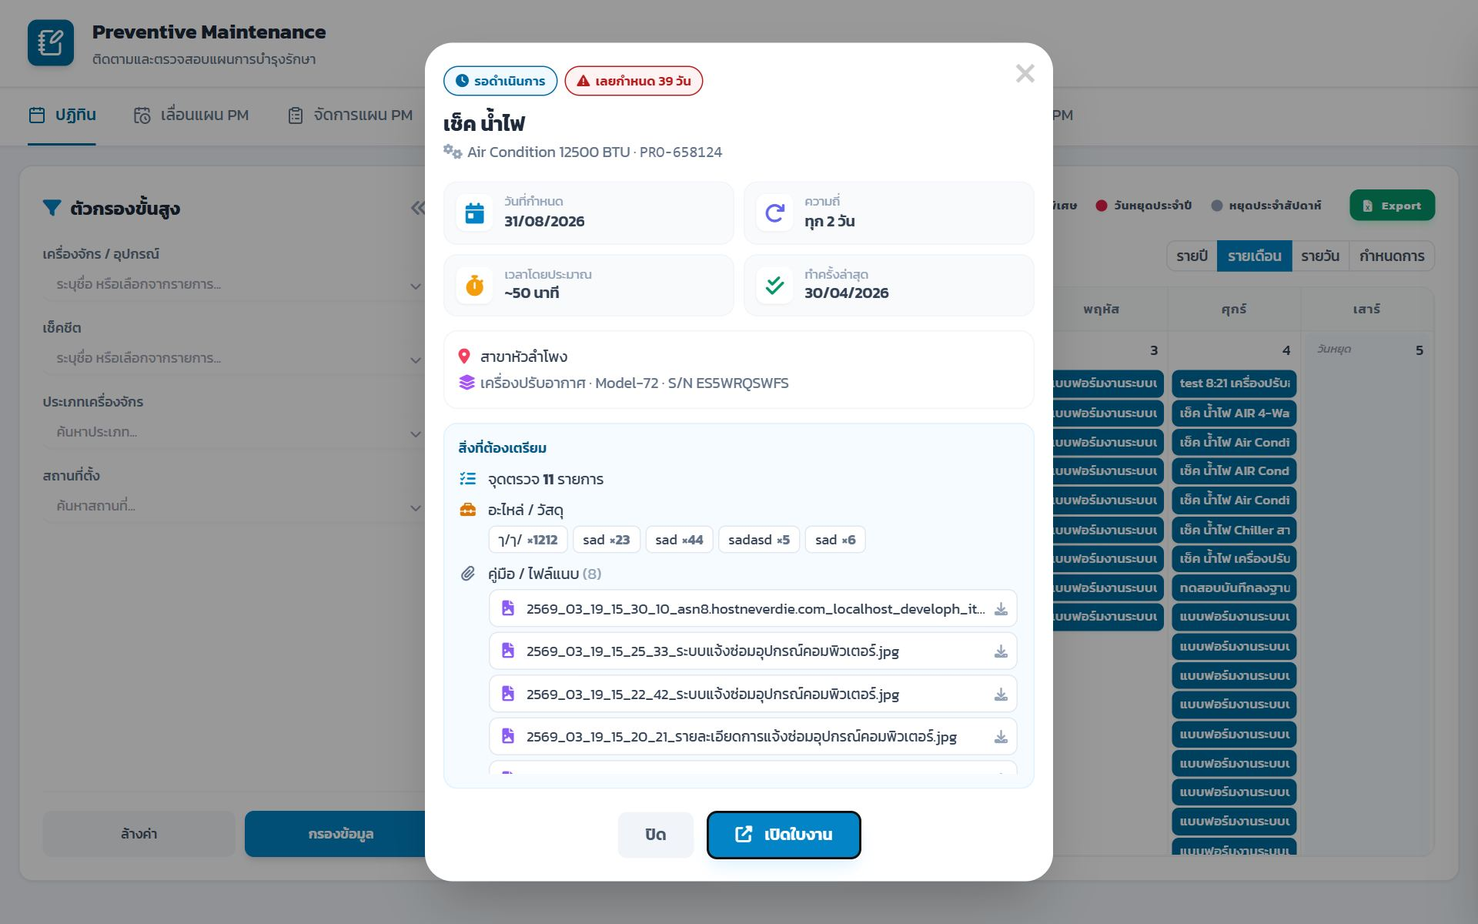
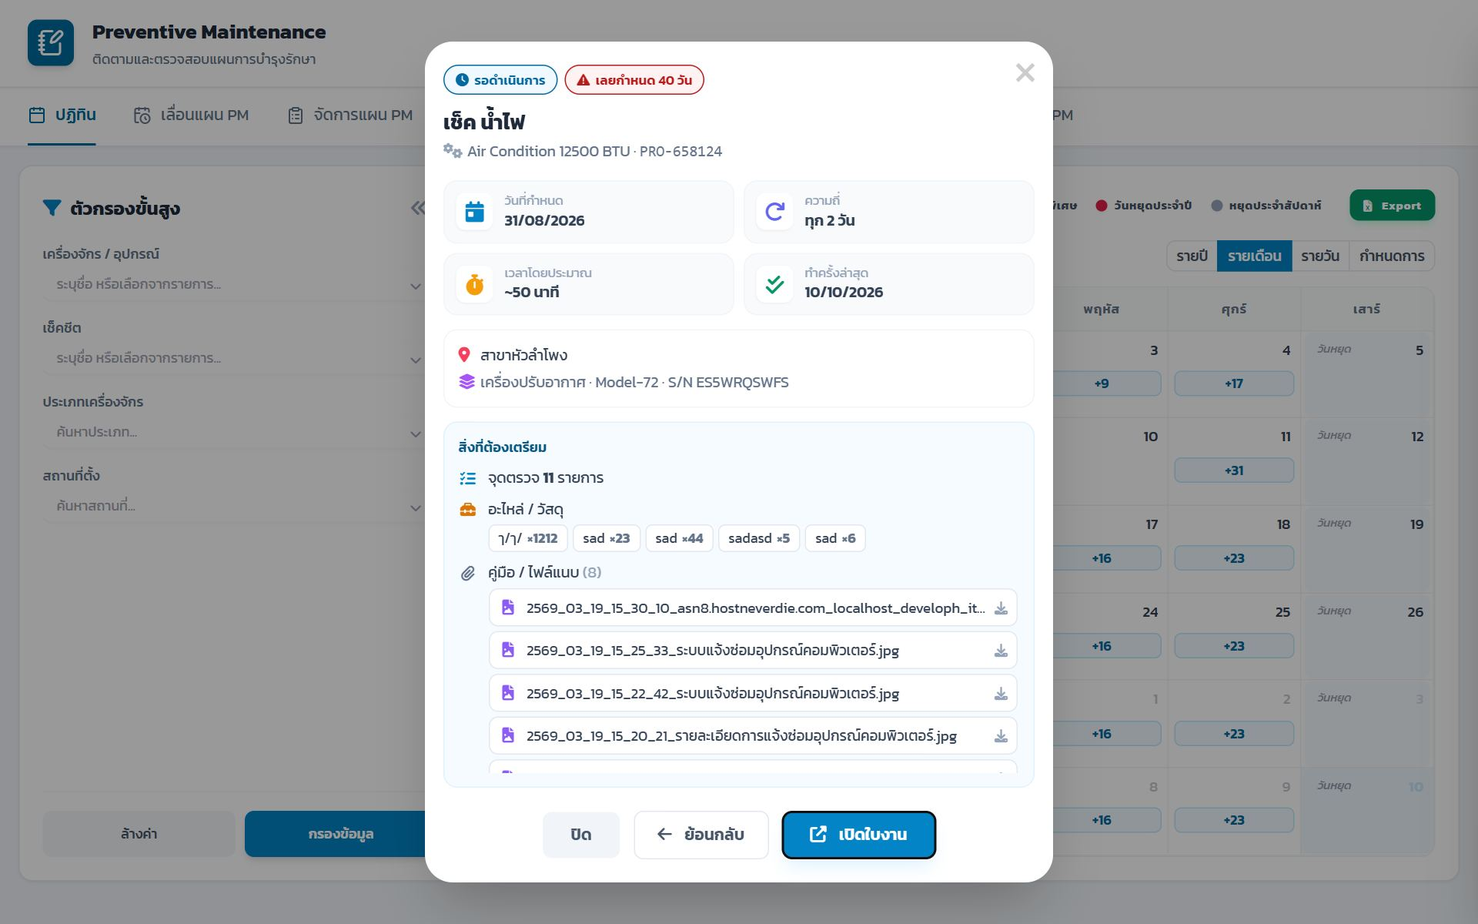
เพิ่มคู่มือบันทึกพร้อมกันหลายเครื่อง

diff --git a/tutorial.php b/tutorial.php
@@ -297,7 +297,7 @@ const MODULES = [
             { m: 6, t: '<b>ความเร่งด่วน</b> — ต่ำ / ปานกลาง / สูง / เร่งด่วนมาก' },
             { m: 7, t: '<b>อาการเสีย/ปัญหาที่พบ</b> — อธิบายสิ่งที่เห็น เช่น "แอร์เปิดไม่ติด มีน้ำหยด"' },
             { m: 8, t: '<b>รูปภาพ</b> — แนบได้สูงสุด 5 รูป (JPG / PNG / WEBP) กด ADD PHOTO หรือลากรูปมาวาง' },
-            { m: 9, t: '<b>วิดีโอ</b> — แนบได้ 1 คลิป ไม่เกิน 30 วินาที (ตัดช่วงคลิปได้ก่อนส่ง)' },
+            { m: 9, t: '<b>วิดีโอ</b> — แนบได้ 1 คลิป ไม่เกิน 30 วินาที ถ้าคลิปยาวกว่านั้น ระบบจะเปิดหน้า<b>ตัดวิดีโอ</b>แบบเต็มจอ ลากที่จับสองข้างเพื่อเลือกช่วง แล้วกด <span class="kbd">ตัดและใช้วิดีโอนี้</span>' },
             { m: 10, t: 'ตรวจข้อมูลแล้วกด <span class="kbd">ยืนยันแจ้งซ่อม</span>' }
         ] }],
         tips: ['ถ่ายรูปให้เห็นทั้งจุดที่เสียและป้าย/รหัสเครื่อง จะช่วยให้ช่างเตรียมอุปกรณ์ได้ถูก', 'กด <b>ล้างข้อมูล</b> หากต้องการเริ่มกรอกใหม่']
@@ -316,7 +316,7 @@ const MODULES = [
         intro: 'ดูรายการแจ้งซ่อมทั้งหมด สถานะของแต่ละงาน และจัดการใบงาน',
         parts: [{ shot: 'repair_list', steps: [
             { m: 1, t: '<b>ค้นหา</b> — พิมพ์ชื่อผู้แจ้ง อาการ อาคาร สถานะ หรือรหัสครุภัณฑ์' },
-            { m: 2, t: '<b>รูป/วิดีโอ</b> — กดเพื่อดูไฟล์ที่แนบมา ตัวเลขที่มุมคือจำนวนไฟล์ ไอคอน ▶ คือมีวิดีโอ' },
+            { m: 2, t: '<b>รูป/วิดีโอ</b> — กดเพื่อดูไฟล์ที่แนบมาแบบเต็มจอ ตัวเลขที่มุมคือจำนวนไฟล์ ไอคอน ▶ คือมีวิดีโอ (วิธีดูรูปอยู่ในเคล็ดลับด้านล่าง)' },
             { m: 3, t: '<b>สถานะ</b> — แถบสีบอกความคืบหน้าของงาน (ดูความหมายด้านล่าง)' },
             { m: 4, t: '<b>แก้ไขใบงาน</b> — เปิดรายละเอียด สำหรับรับงาน/ปิดงาน (ดูบทถัดไป)' },
             { m: 5, t: '<b>พิมพ์ใบงาน</b>' },
@@ -331,7 +331,7 @@ const MODULES = [
             ['<span class="inline-block w-2.5 h-2.5 rounded-full bg-emerald-500 mr-1.5"></span>ประเมินแล้ว', 'ผู้แจ้งประเมินความพึงพอใจแล้ว'],
             ['<span class="inline-block w-2.5 h-2.5 rounded-full bg-rose-500 mr-1.5"></span>ยกเลิก', 'ใบงานถูกยกเลิก']
         ] },
-        tips: ['กดปุ่มกรอง ▾ บนหัวคอลัมน์ เพื่อกรองเฉพาะอาคาร ชั้น หรือสถานะที่ต้องการ', 'บนมือถือ เลือกชิป <b>งานค้าง</b> ด้านบนรายการ เพื่อดูเฉพาะงานที่รอดำเนินการและกำลังดำเนินการ']
+        tips: ['กดปุ่มกรอง ▾ บนหัวคอลัมน์ เพื่อกรองเฉพาะอาคาร ชั้น หรือสถานะที่ต้องการ', 'บนมือถือ เลือกชิป <b>งานค้าง</b> ด้านบนรายการ เพื่อดูเฉพาะงานที่รอดำเนินการและกำลังดำเนินการ', '<b>ดูรูปแบบเต็มจอ</b> — เลื่อนรูป: ปัดซ้าย/ขวา ลากด้วยเมาส์ ปุ่ม ‹ › หรือปุ่มลูกศรบนคีย์บอร์ด | ซูม: ถ่างสองนิ้ว แตะสองครั้ง ดับเบิลคลิก หรือหมุนล้อเมาส์ | ปิด: ปุ่ม ✕ หรือ Esc', 'กดปุ่ม <span class="kbd">ส่งออก Excel</span> เหนือตาราง เพื่อดาวน์โหลดรายการเป็นไฟล์ Excel (บนมือถือเป็นไอคอนสีเขียว)']
     },
     {
         id: 'repair_job', title: 'รับงานและปิดงานซ่อม (สำหรับช่าง)', perm: 'repair_data', href: 'maintenance_info.php',
@@ -390,19 +390,47 @@ const MODULES = [
             { m: 2, t: 'กด <span class="kbd">กรองข้อมูล</span> เพื่อแสดงตามตัวกรอง (<b>ล้างค่า</b> เพื่อดูทั้งหมด)' },
             { m: 3, t: '<b>เลื่อนเดือน</b> ‹ › และกลับมา <b>วันนี้</b>' },
             { m: 4, t: '<b>มุมมอง</b> — รายปี / รายเดือน / รายวัน / กำหนดการ (แบบรายการ)' },
-            { m: 5, t: '<b>กดที่งาน</b> เพื่อดูรายละเอียดและเปิดใบงาน (บทถัดไป)' }
+            { m: 5, t: '<b>กดที่งาน</b> เพื่อดูรายละเอียดและเปิดใบงาน (บทถัดไป) — ถ้าวันนั้นมีงานเช็คชีตเดียวกันที่ยังไม่ทำหลายเครื่อง ระบบจะถามก่อนว่าจะ <b>บันทึกพร้อมกันหลายเครื่อง</b> หรือ <b>รายเครื่อง</b>' },
+            { t: 'ช่องที่มีงานมากจะแสดงปุ่ม <span class="kbd">+N</span> (กรอบสีฟ้า) — กดเพื่อดูงานทั้งวันแยกตามเช็คชีต' }
         ] }]
     },
     {
         id: 'pm_popup', title: 'ดูรายละเอียดงานก่อนเปิดใบงาน', perm: 'pm_plan', href: 'pm.php', tab: 'dashboard',
-        intro: 'เมื่อกดงานในปฏิทิน จะเห็นข้อมูลสรุปที่ช่างควรรู้ก่อนออกไปหน้างาน',
+        intro: 'เมื่อกดงานในปฏิทิน (หรือเลือก <b>รายเครื่อง</b>) จะเห็นข้อมูลสรุปที่ช่างควรรู้ก่อนออกไปหน้างาน',
         parts: [{ shot: 'pm_popup', steps: [
             { m: 1, t: '<b>สถานะ</b> — รอดำเนินการ / เลยกำหนดกี่วัน / ครบกำหนดวันนี้ / เคยถูกเลื่อน' },
             { m: 2, t: '<b>ข้อมูลหลัก</b> — วันที่กำหนด ความถี่ เวลาที่ใช้โดยประมาณ และวันที่ทำครั้งล่าสุด' },
             { m: 3, t: '<b>สิ่งที่ต้องเตรียม</b> — จำนวนจุดตรวจ จุดที่ต้องถ่ายรูป และอะไหล่/วัสดุ' },
             { m: 4, t: '<b>คู่มือ / ไฟล์แนบ</b> — กดที่ชื่อไฟล์เพื่อดาวน์โหลด' },
-            { m: 5, t: 'กด <span class="kbd">เปิดใบงาน</span> เพื่อบันทึกผล (งานที่ทำแล้วจะเป็นปุ่ม <b>ดูประวัติ</b>)' }
+            { m: 5, t: 'กด <span class="kbd">เปิดใบงาน</span> เพื่อบันทึกผล (งานที่ทำแล้วจะเป็นปุ่ม <b>ดูประวัติ</b>)' },
+            { m: 6, t: '<span class="kbd">ย้อนกลับ</span> — กลับไปหน้าก่อนหน้า (ป๊อปอัปเลือกบันทึกพร้อมกัน/รายเครื่อง หรือรายการงานของวัน)' }
         ] }]
+    },
+    {
+        id: 'pm_batch', title: 'บันทึกพร้อมกันหลายเครื่อง', perm: 'pm_plan', href: 'pm.php', tab: 'dashboard',
+        intro: 'บางวันมีงานเช็คชีตเดียวกันหลายสิบถึงหลายร้อยเครื่อง (เช่น ไฟฉุกเฉิน) ถ้าผลตรวจ<b>ปกติ</b>เหมือนกัน บันทึกได้ในครั้งเดียว ระบบจะสร้างใบงานแยกให้ทุกเครื่อง — เลขเอกสาร ประวัติ และรายงาน เป็นรายเครื่องเหมือนบันทึกทีละใบ',
+        parts: [
+        { title: '1. เลือกจากงานในปฏิทิน', shot: 'pm_chooser', steps: [
+            { t: 'กดที่งานในปฏิทิน — ถ้าวันนั้นมีงานเช็คชีตเดียวกันที่ยังไม่ทำมากกว่า 1 เครื่อง จะมีป๊อปอัปให้เลือก' },
+            { m: 1, t: '<b>บันทึกพร้อมกันหลายเครื่อง</b> — เปิดหน้าบันทึกพร้อมกันของเช็คชีตนี้ในวันนั้น (ข้อ 3)' },
+            { m: 2, t: '<b>รายเครื่อง</b> — ดูรายละเอียดและเปิดใบงานของเครื่องที่กด มีปุ่ม <b>ย้อนกลับ</b> มาที่ป๊อปอัปนี้' }
+        ] },
+        { title: '2. หรือดูงานทั้งวันจากปุ่ม +N', shot: 'pm_daylist', steps: [
+            { t: 'ในปฏิทินรายเดือน / รายปี กดปุ่ม <span class="kbd">+N</span> ในช่องวัน เพื่อดูงานทั้งวันแยกตามเช็คชีต' },
+            { m: 1, t: '<b>สรุปทั้งวัน</b> — จำนวนงานทั้งหมด ยังไม่ทำ และทำแล้ว' },
+            { m: 2, t: '<span class="kbd">บันทึกพร้อมกัน N เครื่อง</span> — มีเมื่อเช็คชีตนั้นยังไม่ทำตั้งแต่ 2 เครื่องขึ้นไป' },
+            { m: 3, t: '<b>รายเครื่อง</b> — กางรายชื่อเครื่อง จุดสีน้ำเงิน = ยังไม่ทำ สีเขียว = ทำแล้ว กดชื่อเพื่อดูรายละเอียด' },
+            { m: 4, t: 'เช็คชีตที่มีงานเดียว กด <span class="kbd">เปิดใบงาน</span> ได้ทันที (ทำแล้วจะเป็น <b>ดูประวัติ</b>)' }
+        ] },
+        { title: '3. หน้าบันทึกพร้อมกัน', shot: 'pm_batch', steps: [
+            { m: 1, t: '<b>ผลการตรวจ</b> — เลือกครั้งเดียว ใช้กับทุกเครื่องที่เลือก ได้เฉพาะ <b>ปกติ</b> หรือ <b>ไม่เกี่ยวข้อง</b>' },
+            { m: 2, t: '<b>เครื่องที่จะบันทึก</b> — ค้นหา / เลือกทั้งหมด / ไม่เลือก เครื่องที่<b>ผิดปกติ</b>หรือมีการ<b>ใช้อะไหล่</b> ให้เอาเครื่องหมาย ✓ ออก' },
+            { m: 3, t: '<b>รูป / ค่าที่วัดได้ รายเครื่อง</b> — มีเมื่อเช็คชีตบังคับถ่ายรูปหรือต้องกรอกค่า กดไอคอนกล้องเพื่อถ่ายหรือเลือกรูปของเครื่องนั้น' },
+            { m: 4, t: '<span class="kbd">เปิดใบงาน</span> — บันทึกเครื่องนั้นทีละใบ (สำหรับเครื่องที่ผิดปกติ)' },
+            { m: 5, t: '<b>ผู้ตรวจสอบ หมายเหตุ และลายมือชื่อ</b> — ทำครั้งเดียว ใช้กับทุกใบ' },
+            { m: 6, t: 'กด <span class="kbd">บันทึก N เครื่อง</span> — ระบบบันทึกทีละชุดพร้อมแถบความคืบหน้า แล้วสรุปผลรายเครื่อง เครื่องที่ไม่สำเร็จจะยังอยู่ในรายการ แก้แล้วกดบันทึกอีกครั้งได้' }
+        ] }],
+        tips: ['หน้านี้ไม่บันทึกอะไหล่ที่ใช้จริง (ไม่ตัดสต็อก) — เครื่องที่ใช้อะไหล่ให้บันทึกทีละใบ', 'บันทึกเสร็จแล้ว ปฏิทินจะเปลี่ยนงานเป็นสีเขียวให้อัตโนมัติ', 'มีหลายร้อยเครื่อง หน้าแสดงทีละ 100 เครื่อง กด <b>แสดงเพิ่ม</b> ด้านล่างรายการ (การเลือกทั้งหมดรวมเครื่องที่ยังไม่แสดงด้วย)']
     },
     {
         id: 'pm_worksheet', title: 'บันทึกใบงาน PM', perm: 'pm_plan',
@@ -741,6 +769,7 @@ const FAQ = [
     ['ทั่วไป', 'ข้อมูลไม่อัปเดต', 'กดปุ่มรีเฟรช/โหลดใหม่ของหน้านั้น หรือเลือกเมนูเดิมอีกครั้ง', null],
     ['ทั่วไป', 'ตัวเลขสีแดงบนกระดิ่งคืออะไร', 'จำนวนการแจ้งเตือนที่ยังไม่อ่าน กดกระดิ่งเพื่อดู หรือกด "อ่านทั้งหมด" ในหน้าการแจ้งเตือน', 'notifications'],
     ['ทั่วไป', 'ใช้บนมือถือได้ไหม', 'ได้ทุกเมนู หน้าจอปรับตามขนาดอัตโนมัติ และเข้าสู่ระบบด้วยการสแกน QR Code ได้', 'qr_login'],
+    ['แจ้งซ่อม', 'ดูรูปที่แนบให้ใหญ่ / ซูม / เลื่อนรูปอย่างไร', 'กดที่รูปในรายการ จะเปิดเต็มจอ — ปัดซ้าย/ขวาหรือลากด้วยเมาส์เพื่อเปลี่ยนรูป ถ่างสองนิ้ว แตะสองครั้ง หรือหมุนล้อเมาส์เพื่อซูม กด ✕ หรือ Esc เพื่อปิด', 'repair_list'],
     ['แจ้งซ่อม', 'แนบรูปหรือวิดีโอไม่ได้', 'รูปแนบได้สูงสุด 5 รูป (JPG / PNG / WEBP) วิดีโอ 1 คลิป ไม่เกิน 30 วินาที — คลิปยาวให้ตัดช่วงก่อนส่ง', 'repair'],
     ['แจ้งซ่อม', 'แจ้งซ่อมแล้ว จะรู้ได้อย่างไรว่าช่างรับงานแล้ว', 'ดูสถานะในเมนูข้อมูลแจ้งซ่อม: รอดำเนินการ → กำลังดำเนินการ (ช่างรับงานแล้ว) → เสร็จสิ้น', 'repair_list'],
     ['แจ้งซ่อม', 'ขึ้นเดือนใหม่แล้ว งานเดือนก่อนที่ยังไม่เสร็จหายไปไหม', 'ไม่หาย — การ์ดรอดำเนินการ / กำลังดำเนินการในหน้าหลักนับงานค้างทั้งหมด และมีแถบเตือนสีส้มบอกงานที่ค้างจากก่อนช่วงที่เลือก กด "ดูรายการ" เพื่อเปิดทั้งหมด (บนมือถือเลือกชิป "งานค้าง")', 'dashboard'],
@@ -751,6 +780,8 @@ const FAQ = [
     ['งาน PM', 'ทำงาน PM ตามวันที่กำหนดไม่ได้', 'เลื่อนงานได้ที่แท็บเลื่อนแผน PM โดยต้องระบุเหตุผลทุกครั้ง', 'pm_postpone'],
     ['งาน PM', 'งาน PM ตรงกับวันหยุด', 'ตั้งวันหยุดและวิธีจัดการ (เลื่อนไป / เลื่อนมาก่อน / หยุดทำ) ที่แท็บจัดการวันหยุด แล้วกด "คำนวณแผนใหม่"', 'pm_holiday'],
     ['งาน PM', 'ตัวเลขในช่องของตารางแผน PM รายปีคืออะไร', 'จำนวนครั้งของงานในช่องนั้น (รายปีแบ่งเดือนละ 4 ช่อง) — ดูทีละวันได้ที่มุมมองรายเดือนหรือรายสัปดาห์', 'pm_schedule'],
+    ['งาน PM', 'งานเช็คชีตเดียวกันมีหลายร้อยใบ ต้องกดบันทึกทีละใบไหม', 'ไม่ต้อง — กดที่งานในปฏิทินแล้วเลือก "บันทึกพร้อมกันหลายเครื่อง" (หรือกด +N ในช่องวัน) กรอกผลตรวจ ผู้ตรวจ และเซ็นครั้งเดียว ระบบสร้างใบงานแยกให้ทุกเครื่อง', 'pm_batch'],
+    ['งาน PM', 'บันทึกพร้อมกันแล้วบางเครื่องไม่สำเร็จ', 'ดูสาเหตุในสรุปผล (เช่น ยังไม่แนบรูปที่บังคับ) เครื่องที่ไม่สำเร็จยังอยู่ในรายการ แก้แล้วกดบันทึกอีกครั้ง — ถ้าทุกเครื่องขึ้นว่าไม่พบเลขที่เอกสาร ให้ผู้ดูแลใส่เลขที่เอกสารของเช็คชีตก่อน', 'pm_batch'],
     ['งาน PM', 'บันทึกใบงาน PM ไม่ผ่าน', 'ดูขั้นสรุปว่ายังมีข้อที่ไม่ได้ตรวจหรือไม่ จุดที่บังคับถ่ายรูปต้องแนบรูป และต้องเลือกชื่อผู้ตรวจสอบพร้อมเซ็นชื่อ', 'pm_worksheet'],
     ['มิเตอร์และสต็อก', 'เลขมิเตอร์ครั้งนี้น้อยกว่าครั้งก่อน', 'ถ้าหน้าปัดวิ่งครบรอบแล้ว ให้ติ๊ก "ยืนยันมิเตอร์วนรอบ" ตอนบันทึก', 'meter'],
     ['มิเตอร์และสต็อก', 'จำนวนอะไหล่ในระบบไม่ตรงกับของจริง', 'ใช้ปุ่ม "ปรับยอด" ในเมนูจัดการสต็อก เพื่อให้มีประวัติการแก้ไข', 'stock_move'],

diff --git a/pm_dashboard.php b/pm_dashboard.php
@@ -252,11 +252,11 @@ include "config_ctrl/checksession.php";
     /* ปุ่ม +N (งานที่เหลือของวัน) ตีกรอบเป็นชิปเต็มความกว้างช่อง ให้เห็นชัดว่ากดได้ */
     #pm-calendar .fc-daygrid-more-link {
         display: block; float: none !important; box-sizing: border-box; width: calc(100% - 6px); margin: 2px 3px 0; padding: 1px 6px;
-        border: 1px solid #bae6fd; background: #f0f9ff; color: #0369a1;
-        border-radius: 6px; font-size: 12px; font-weight: 600; line-height: 1.5; text-align: center;
+        border: 1px solid #006B9F; background: #fff; color: #0f172a;   /* แบบ outline เหมือนเดิม */
+        border-radius: 4px; font-size: 12px; font-weight: 500; line-height: 1.5; text-align: left;
         white-space: nowrap; overflow: hidden; text-overflow: ellipsis; transition: background .15s, border-color .15s;
     }
-    #pm-calendar .fc-daygrid-more-link:hover { background: #e0f2fe; border-color: #7dd3fc; text-decoration: none; }
+    #pm-calendar .fc-daygrid-more-link:hover { background: #f0f9ff; color: #006B9F; text-decoration: none; }
     #pm-calendar .fc-daygrid-day-bottom { margin-top: 0 !important; }
     /* popup รายละเอียดงาน PM */
     .pm-dt-body { margin: 1.25rem 1rem 0 !important; padding: 0 !important; }
